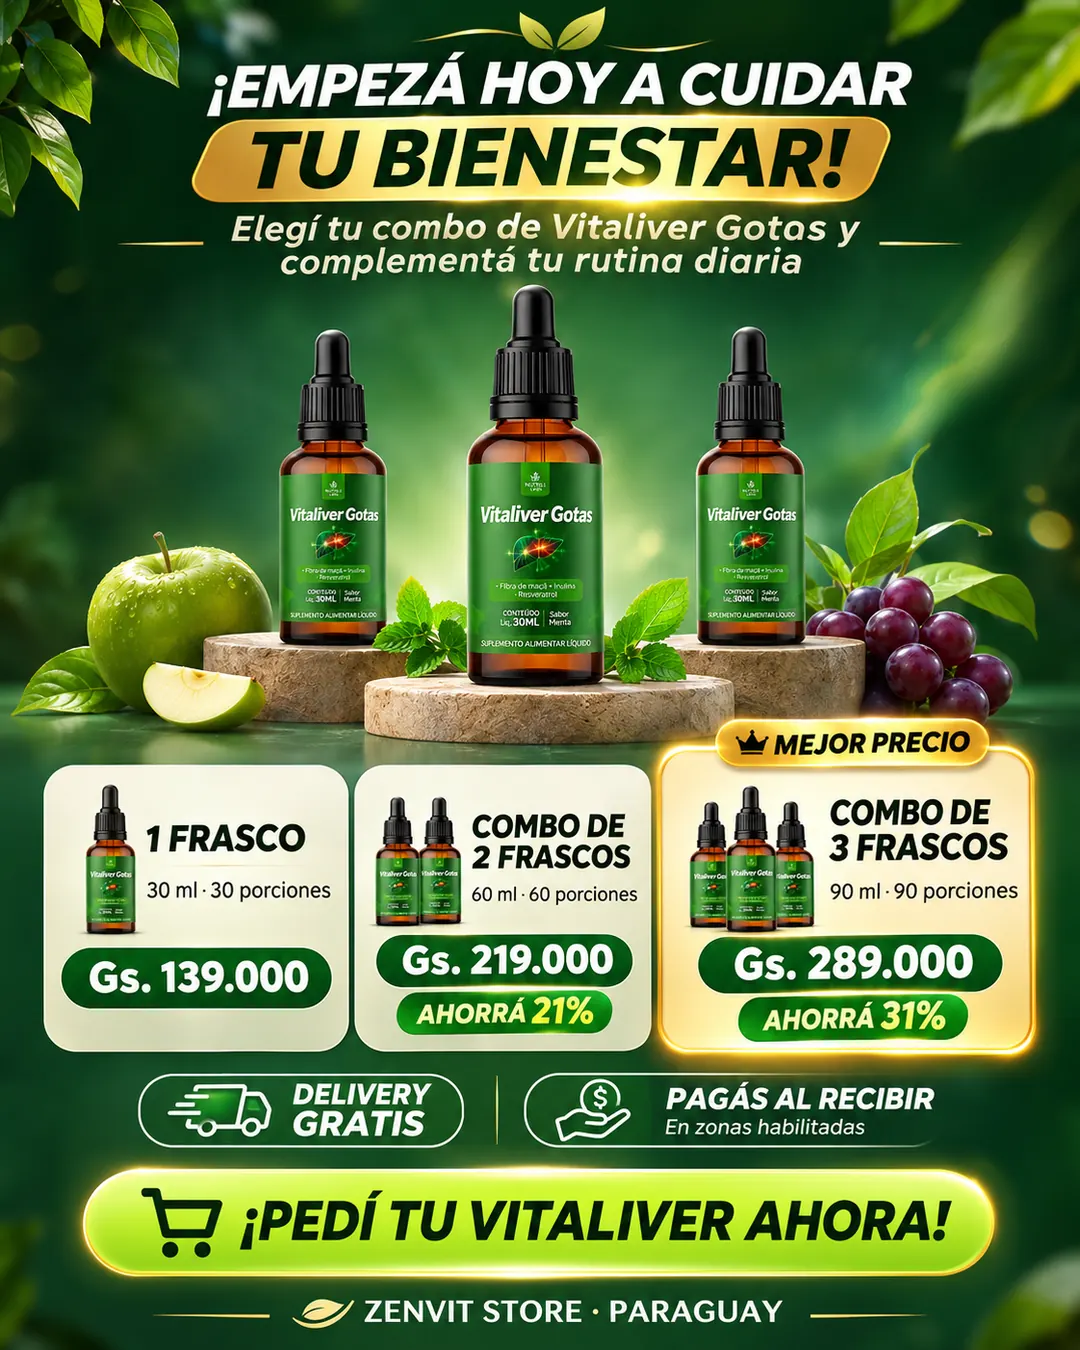
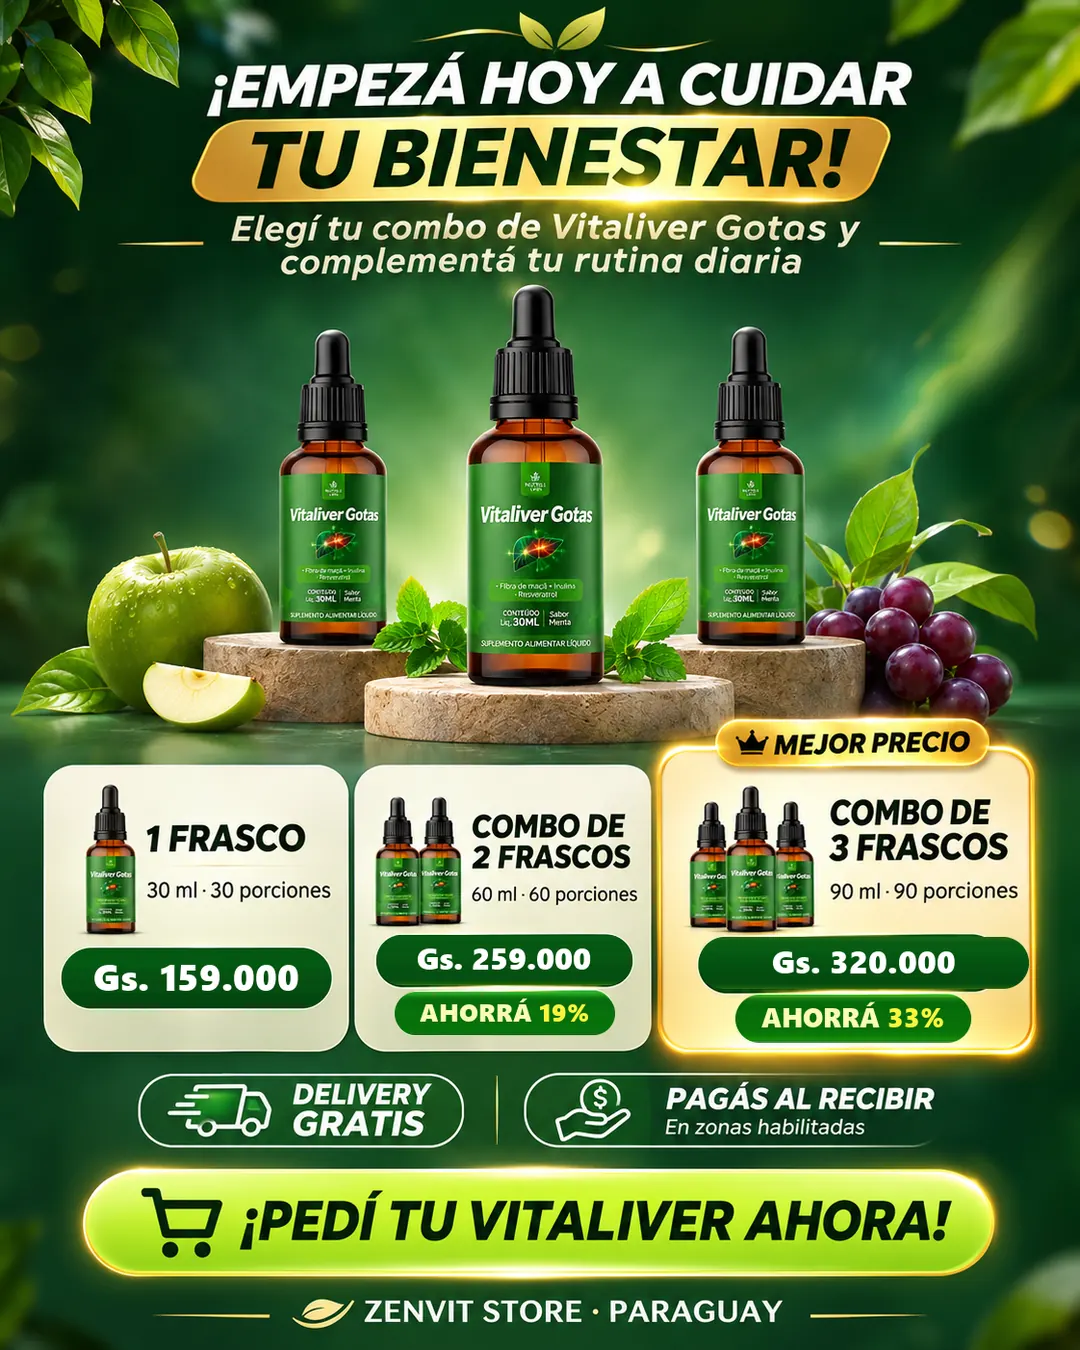
Precios nuevos: Gs. 159.000 / 259.000 / 320.000
- CONFIG.offers y ViewContent con los precios nuevos (comparación 318.000 y 477.000).
- create-vitaliver-order v2 en PROD con los mismos BUNDLES.
- Placa de combos corregida: 159.000 / 259.000 / 320.000, ahorrá 19% y 33%.

Changed region(s): [[0.6722, 0.6844, 0.9472, 0.7778], [0.3667, 0.6844, 0.5806, 0.7778], [0.0611, 0.6844, 0.3056, 0.7467]]

diff --git a/index.html b/index.html
@@ -327,7 +327,7 @@ if(!f._fbq)f._fbq=n;n.push=n;n.loaded=!0;n.version='2.0';n.queue=[];t=b.createEl
 t.src=v;s=b.getElementsByTagName(e)[0];s.parentNode.insertBefore(t,s)}(window,document,'script','https://connect.facebook.net/en_US/fbevents.js');
 fbq('init', '2141006803281667');
 fbq('track', 'PageView');
-fbq('track', 'ViewContent', { content_name: 'Vitaliver', content_type: 'product', value: 139000, currency: 'PYG' });
+fbq('track', 'ViewContent', { content_name: 'Vitaliver', content_type: 'product', value: 159000, currency: 'PYG' });
 </script>
 <noscript><img height="1" width="1" style="display:none" alt="" src="https://www.facebook.com/tr?id=2141006803281667&ev=PageView&noscript=1"></noscript>
 </head>
@@ -534,7 +534,7 @@ fbq('track', 'ViewContent', { content_name: 'Vitaliver', content_type: 'product'
 <div class="banner">
   <p class="banner__note" id="bannerPriceNote" hidden>La imagen muestra los precios de lista. Tu descuento se aplica en el pedido.</p>
   <button type="button" id="comboBanner" data-banner-order>
-    <img src="img/vlb-combos-1080.webp" srcset="img/vlb-combos-560.webp 560w, img/vlb-combos-1080.webp 1080w" sizes="(min-width: 560px) 560px, 100vw" width="1080" height="1350" alt="Elegí tu combo de Vitaliver Gotas: 1 frasco Gs. 139.000, 2 frascos Gs. 219.000 (ahorrás 21%), 3 frascos Gs. 289.000 (ahorrás 31%). Delivery gratis y pagás al recibir. Abrir pedido." loading="lazy" decoding="async">
+    <img src="img/vlb-combos-1080.webp" srcset="img/vlb-combos-560.webp 560w, img/vlb-combos-1080.webp 1080w" sizes="(min-width: 560px) 560px, 100vw" width="1080" height="1350" alt="Elegí tu combo de Vitaliver Gotas: 1 frasco Gs. 159.000, 2 frascos Gs. 259.000 (ahorrás 19%), 3 frascos Gs. 320.000 (ahorrás 33%). Delivery gratis y pagás al recibir. Abrir pedido." loading="lazy" decoding="async">
   </button>
 </div>
 <div class="divider on-brand"></div>
@@ -594,9 +594,9 @@ const CONFIG = {
   /* Precios del catálogo. compare = el mismo frasco comprado suelto (ahorro real del combo).
      Si los cambiás, cambialos también en supabase/functions/create-vitaliver-order (BUNDLES). */
   offers: [
-    { id: "1u", title: "1 frasco · 30 ml",  sub: "Rinde 30 días", img: "img/combo-1.webp", qty: 1, price: 139000, default: true },
-    { id: "2u", title: "2 frascos · 60 ml", sub: "Rinde 60 días", img: "img/combo-2.webp", qty: 2, price: 219000, compare: 278000, tag: "⭐ EL MÁS ELEGIDO" },
-    { id: "3u", title: "3 frascos · 90 ml", sub: "Rinde 90 días", img: "img/combo-3.webp", qty: 3, price: 289000, compare: 417000, tag: "🔥 MEJOR PRECIO" }
+    { id: "1u", title: "1 frasco · 30 ml",  sub: "Rinde 30 días", img: "img/combo-1.webp", qty: 1, price: 159000, default: true },
+    { id: "2u", title: "2 frascos · 60 ml", sub: "Rinde 60 días", img: "img/combo-2.webp", qty: 2, price: 259000, compare: 318000, tag: "⭐ EL MÁS ELEGIDO" },
+    { id: "3u", title: "3 frascos · 90 ml", sub: "Rinde 90 días", img: "img/combo-3.webp", qty: 3, price: 320000, compare: 477000, tag: "🔥 MEJOR PRECIO" }
   ],
 
   countdownMinutes: 0,   // sin contador: no hay una oferta que venza

diff --git a/supabase/functions/create-vitaliver-order/index.ts b/supabase/functions/create-vitaliver-order/index.ts
@@ -6,7 +6,7 @@
 const PRODUCT_NAME = "VITALIVER";
 const ORIGIN = "landing_vitaliver";
 // Precio TOTAL por combo.
-const BUNDLES: Record<number, number> = { 1: 139000, 2: 219000, 3: 289000 };
+const BUNDLES: Record<number, number> = { 1: 159000, 2: 259000, 3: 320000 };
 const DEPARTMENTS = ["Asunción", "Central"];
 // Descuento de la ventana "antes de irte" de la landing. El monto lo fija el servidor:
 // el navegador solo avisa que la persona lo aceptó (descuento: "salida").

diff --git a/README.md b/README.md
@@ -3,9 +3,9 @@
 Landing estática hecha con la misma plantilla que ZenVit/articumina (copiada de MagnesioVEE, la versión más nueva). Incluye el checkout en ventana con departamentos y ciudades de Paraguay, el mapa opcional, los combos, el descuento "antes de irte", el pago al recibir, el botón de WhatsApp, el Pixel con CAPI y las visitas en vivo para el panel.
 
 ## Precios
-- 1 frasco: Gs. 139.000
-- 2 frascos: Gs. 219.000 (ahorro Gs. 59.000)
-- 3 frascos: Gs. 289.000 (ahorro Gs. 128.000)
+- 1 frasco: Gs. 159.000
+- 2 frascos: Gs. 259.000 (ahorro Gs. 59.000)
+- 3 frascos: Gs. 320.000 (ahorro Gs. 157.000)
 - Descuento "antes de irte": Gs. 10.000 (1 frasco) y Gs. 20.000 (combos).
 
 Costo del proveedor (Naturalcaps): Gs. 42.000. Precio sugerido: Gs. 119.200. La competencia (Tienda 360) lo vende a Gs. 129.000.
@@ -47,7 +47,7 @@ Todo está en `img/`, en WebP 4:5:
 
 `499b9e0a-….png`, `9dc7aec7-….png` e `Imagen de ChatGPT…png` se usan en la galería principal (`vitaliver-g1/g2/g3`), no como banners.
 
-`vlb-combos` muestra los precios (139.000 / 219.000 / 289.000). Si cambiás los precios, hay que rehacer esa imagen.
+`vlb-combos` muestra los precios (159.000 / 259.000 / 320.000). Se corrigieron sobre la imagen original con `_herramientas/vitaliver-combos-precios.py` y la versión corregida quedó en `imgnuevo/`. Si cambiás los precios, hay que rehacer esa imagen.
 
 ## Desarrollo y publicación
 Sin dependencias: `python -m http.server 4173` en esta carpeta. Todo lo del producto está en `CONFIG` dentro de `index.html`. Se publica con GitHub Pages desde el repo `ZenVit/vitaliver`, rama `main`, raíz `/`. Está publicada desde el 14/11/2026 en https://zenvit.github.io/vitaliver/
